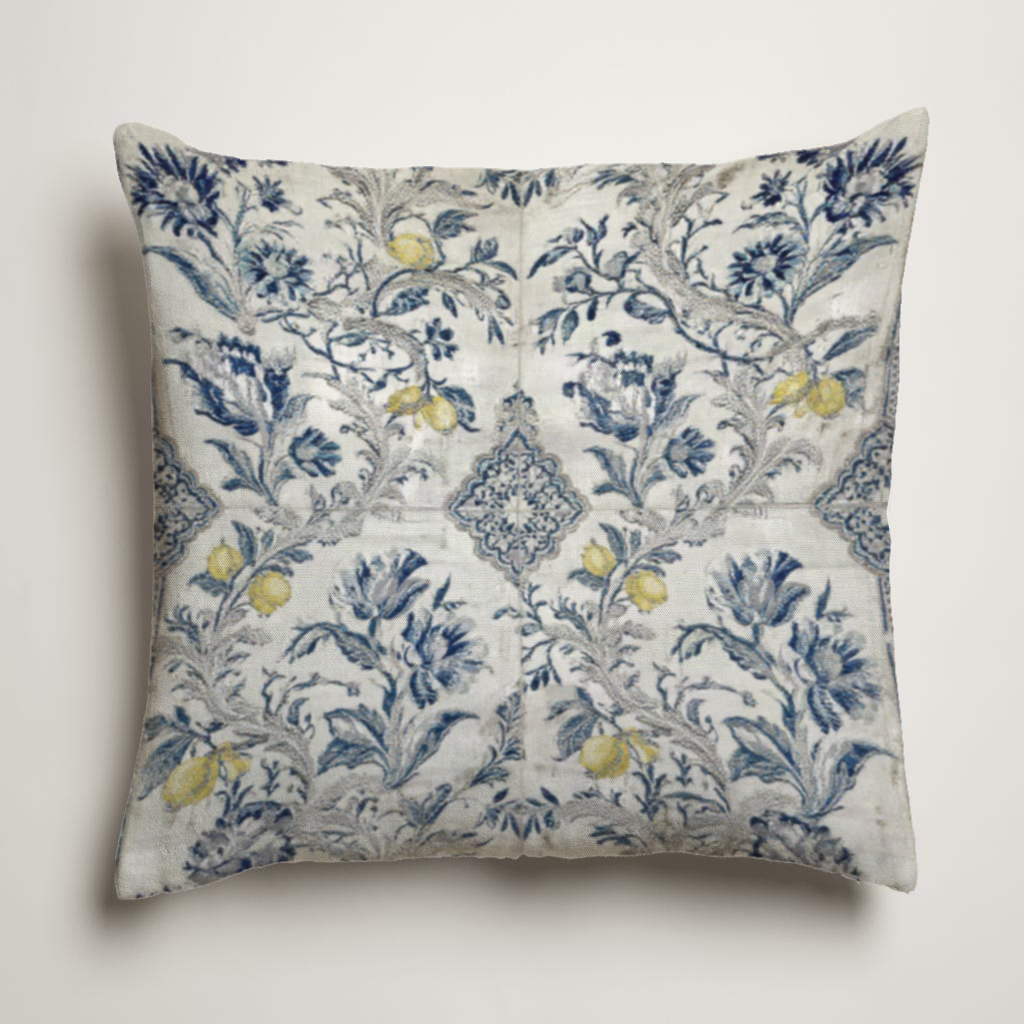
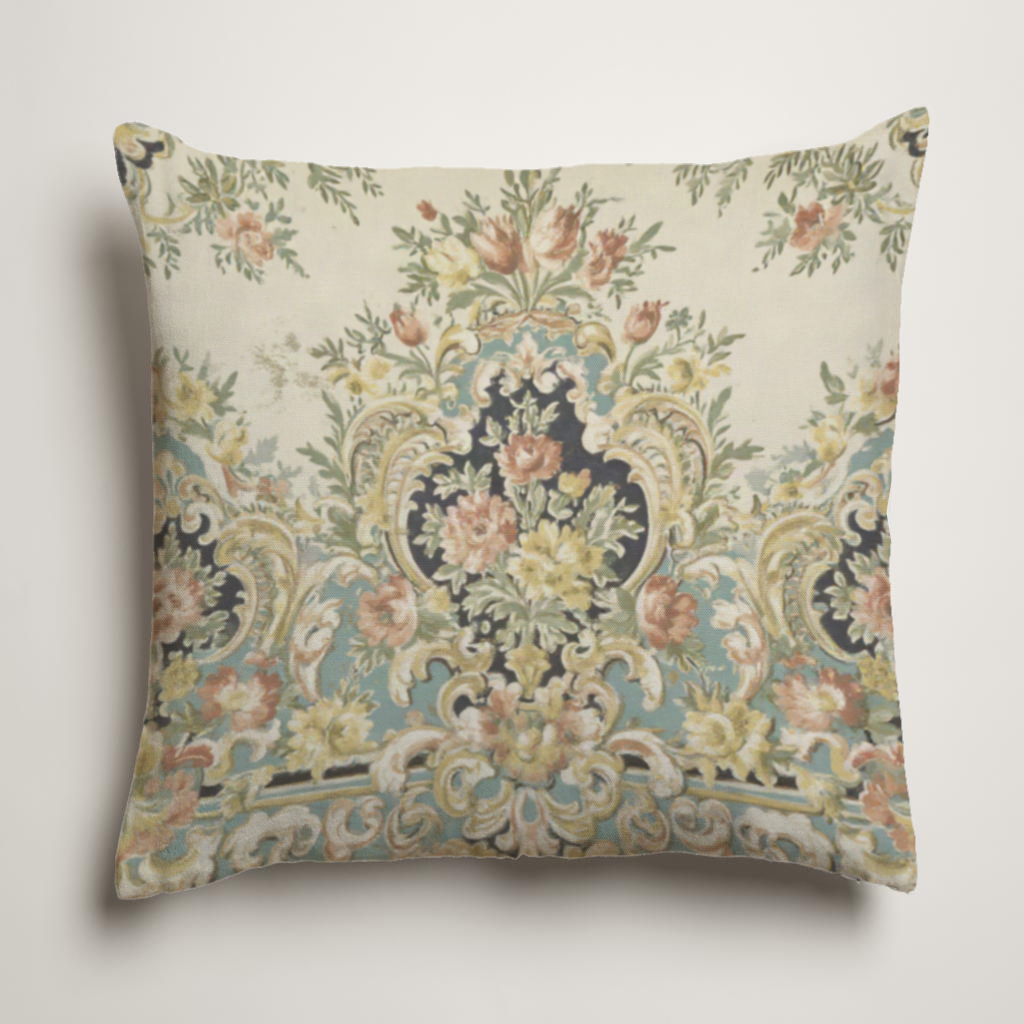
Iznik tile accent + new palette direction + 7 more use-case tests (27 total)

diff --git a/test/state.test.js b/test/state.test.js
@@ -259,3 +259,69 @@ test('attachNarrative stores provenance label on the version', () => {
   assert.ok(v.narrative.label.includes('not a cloud AI'));
   assert.ok(v.narrative.generatedAt);
 });
+
+// --- additional use cases ---
+
+test('editing an existing contribution re-stales the current proposal', () => {
+  const state = readyState();
+  engine.approve(state, 'v1', 'alex');
+  const v2 = engine.submitContribution(state, 'alex', 'Lemon trees in grandma\'s courtyard');
+  assert.equal(state.versions.find((v) => v.id === 'v1').status, 'stale');
+  assert.equal(v2.contributionSnapshot.alex.text, "Lemon trees in grandma's courtyard");
+  assert.equal(engine.giftStatus(state).unanimous, false);
+});
+
+test('all three memories in at once produces one version only', () => {
+  const state = engine.createState({
+    gift: SEED.gift,
+    contributions: {
+      alex: { text: 'Lemon sprigs from our garden walks' },
+      deniz: { text: 'Blue tiled courtyards and Turkish motifs' },
+      sam: { text: 'Calm home. Minimal pattern. No lettering.' },
+    },
+  });
+  assert.equal(state.versions.length, 1);
+  assert.equal(state.versions[0].brief.influences.length, 3);
+});
+
+test('organizer can create a gift for a different occasion and category', () => {
+  const state = engine.createState({
+    gift: { recipient: 'Elif', occasion: 'wedding', category: 'table runner' },
+    contributions: { alex: null, deniz: null, sam: null },
+  });
+  const v = engine.currentVersion(state);
+  assert.equal(v.brief.occasion, 'wedding');
+  assert.ok(v.brief.text.includes('Elif'));
+  assert.ok(v.brief.text.includes('table runner'));
+  assert.equal(v.brief.influences.length, 0);
+});
+
+test('requestChange on a stale version is rejected', () => {
+  const state = readyState();
+  engine.submitContribution(state, 'sam', 'Calm home.');
+  assert.throws(() => engine.requestChange(state, 'v1', 'sam', 'bigger border'), /stale-version/);
+});
+
+test('suggestions adapt to the occasion', () => {
+  const wedding = suggest({ recipient: 'Elif', occasion: 'wedding', category: 'table runner' }, 'sam', { sam: null }, 10);
+  const house = suggest(SEED.gift, 'sam', SEED.contributions, 10);
+  assert.ok(Array.isArray(wedding) && wedding.length > 0);
+  assert.ok(wedding.every((i) => i.memory && i.influence));
+  assert.notDeepEqual(wedding.map((i) => i.memory), house.map((i) => i.memory));
+});
+
+test('suggestions for an unknown occasion fall back to defaults', () => {
+  const ideas = suggest({ recipient: 'X', occasion: 'retirement', category: 'mug' }, 'alex', {}, 3);
+  assert.equal(ideas.length, 3);
+  assert.ok(ideas.every((i) => i.memory && i.influence));
+});
+
+test('narrative adapts when a friend is missing from the version', () => {
+  const state = readyState();
+  const v = engine.currentVersion(state);
+  const text = narrate(v, state.gift);
+  assert.ok(text.includes('Alex'));
+  assert.ok(text.includes('Deniz'));
+  assert.ok(!text.includes('Sam,')); // Sam contributed nothing to v1
+  assert.ok(text.includes('2 friends'));
+});

diff --git a/public/styles.css b/public/styles.css
@@ -61,6 +61,21 @@ code { background: var(--paper-deep); padding: 0.1rem 0.35rem; border-radius: 4p
 .frame.narrow h2 { font-size: 1.9rem; margin: 0.2rem 0 0.8rem; }
 .frame.narrow .mascot.small { margin-left: 0; margin-bottom: 0.4rem; }
 
+.tile-strip {
+  display: block;
+  width: 100%;
+  height: 58px;
+  object-fit: cover;
+  border-radius: 6px;
+  margin: 0 auto 1.4rem;
+}
+.tile-thumb {
+  width: 64px;
+  height: 64px;
+  object-fit: cover;
+  border-radius: 8px;
+  border: 1px solid var(--line);
+}
 .mascot { width: 150px; display: block; margin: 0 auto 0.5rem; }
 .mascot.small { width: 90px; margin-bottom: 0.8rem; }
 .mascot.tiny {

diff --git a/src/state.js b/src/state.js
@@ -14,8 +14,8 @@ const FRIEND_NAMES = {
   sam: 'Sam',
 };
 
-const PALETTE = ['vivid cobalt blue', 'clean bright white', 'a small lemon-yellow accent'];
-const STYLE = 'Turkish İznik ceramic-tile motifs — stylized tulips, thin geometric border, crisp saturated colors like glazed tile';
+const PALETTE = ['turquoise İznik blue field', 'deep navy', 'warm white', 'small coral-red and lemon-yellow accents'];
+const STYLE = 'Turkish İznik ceramic-tile panel — ornate floral medallion composition, stylized tulips and carnations, rich saturated glazed-tile colors';
 
 function now() {
   return new Date().toISOString();

diff --git a/public/index.html b/public/index.html
@@ -12,6 +12,7 @@
   <!-- ══ Welcome ══ -->
   <section id="screen-welcome" class="screen welcome">
     <div class="frame">
+      <img class="tile-strip" src="iznik-strip.jpg" alt="" aria-hidden="true" />
       <img class="mascot" src="ilmio.png" alt="ilmio — a little yarn friend" />
       <h1>ilmio</h1>
       <p class="pitch">Everyone adds a memory. Together, you make one gift.</p>
